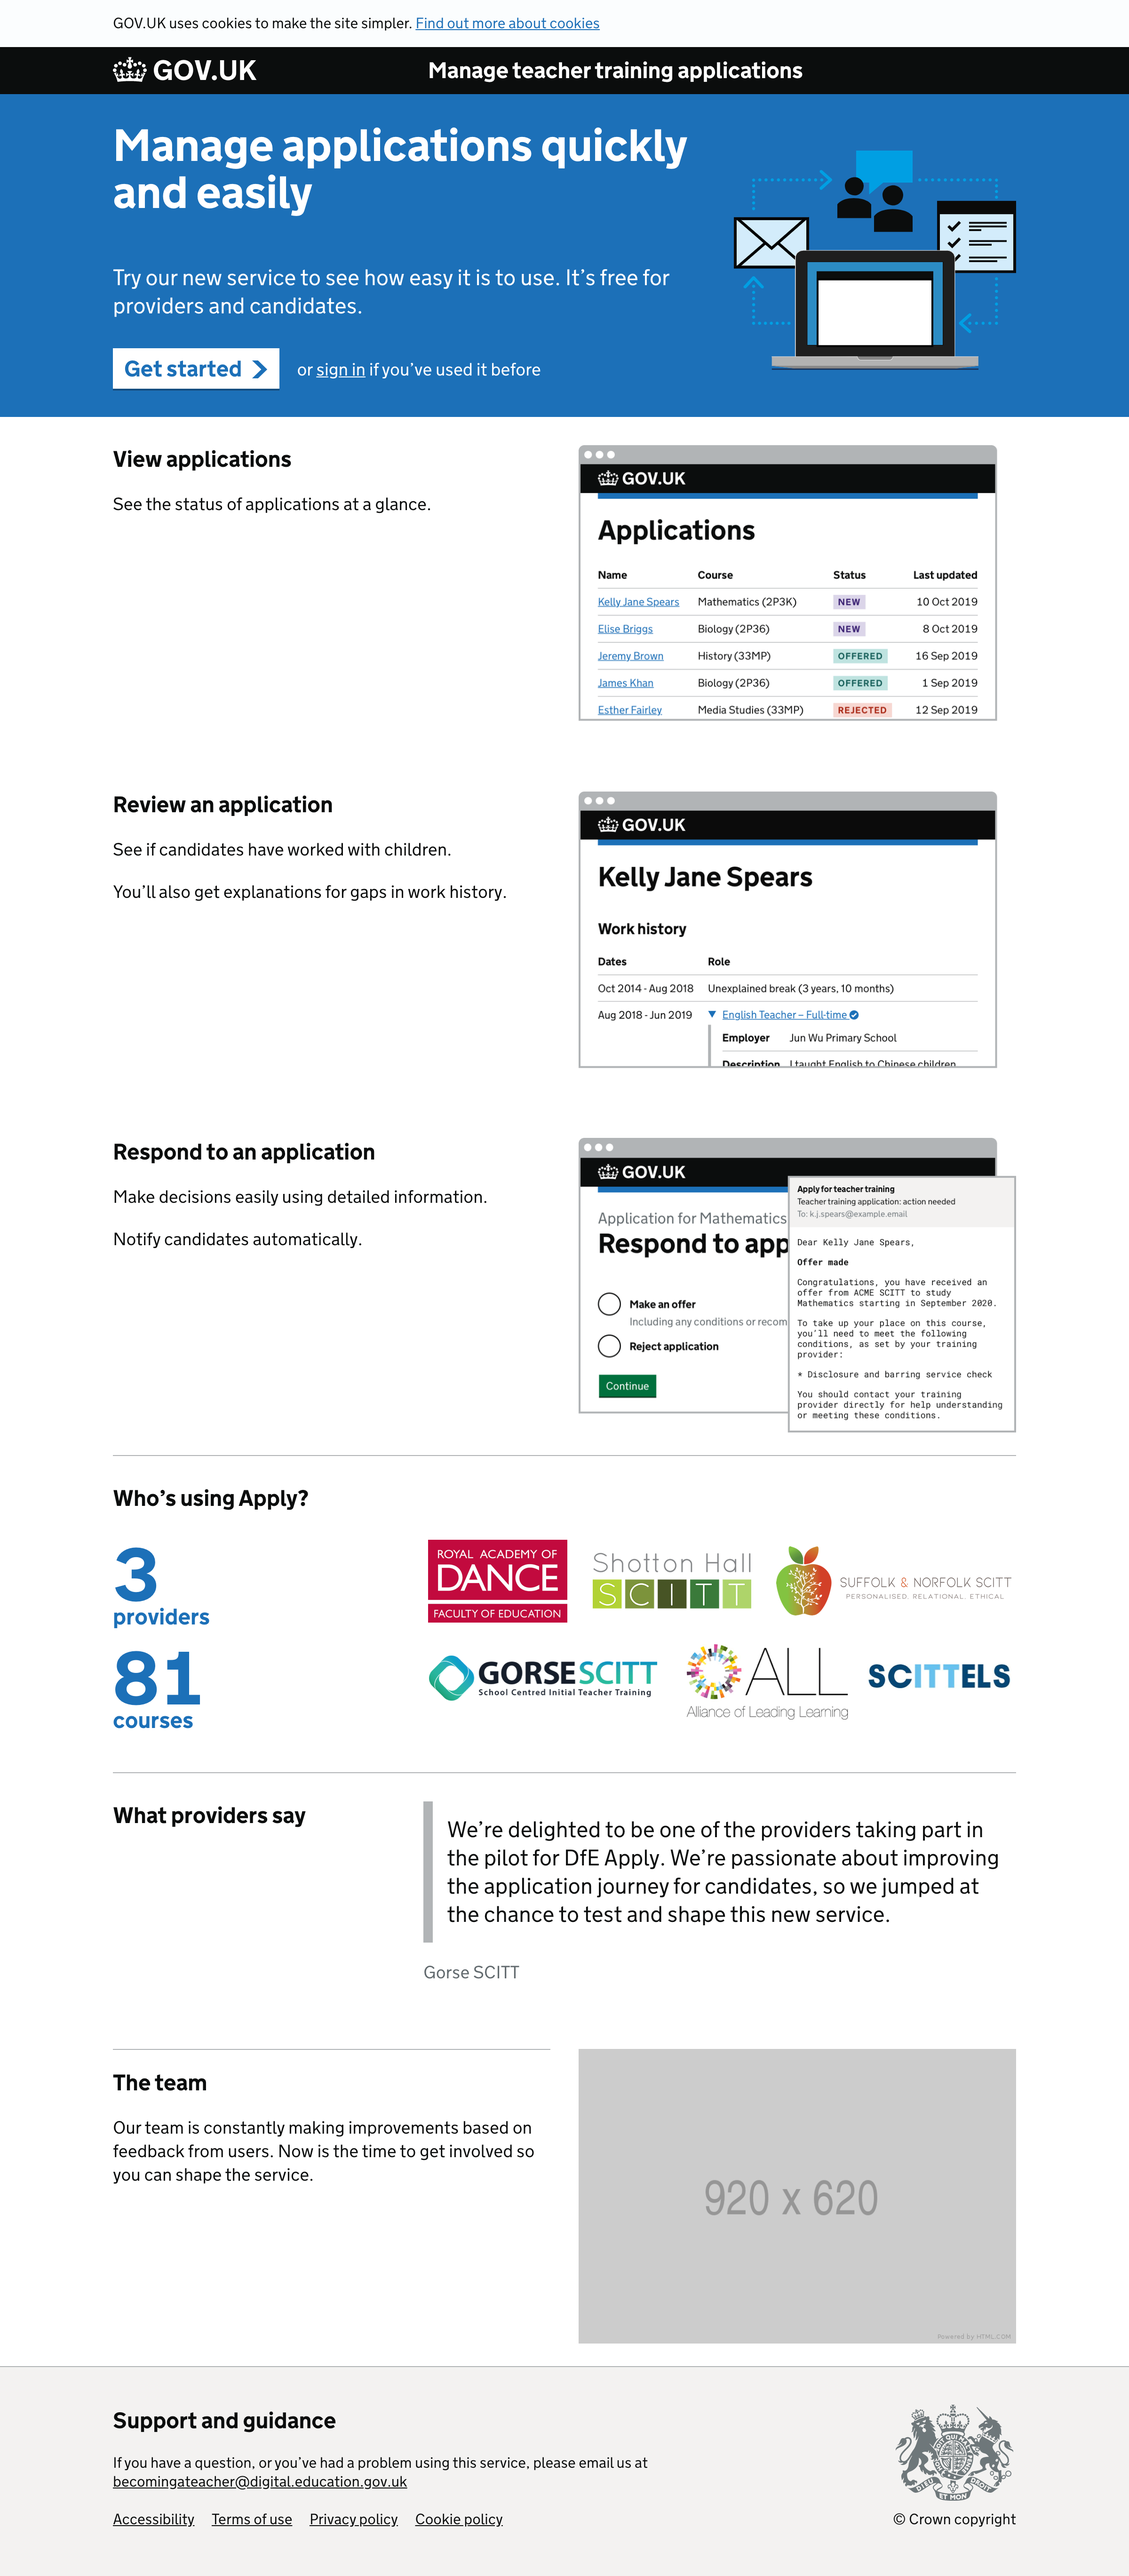
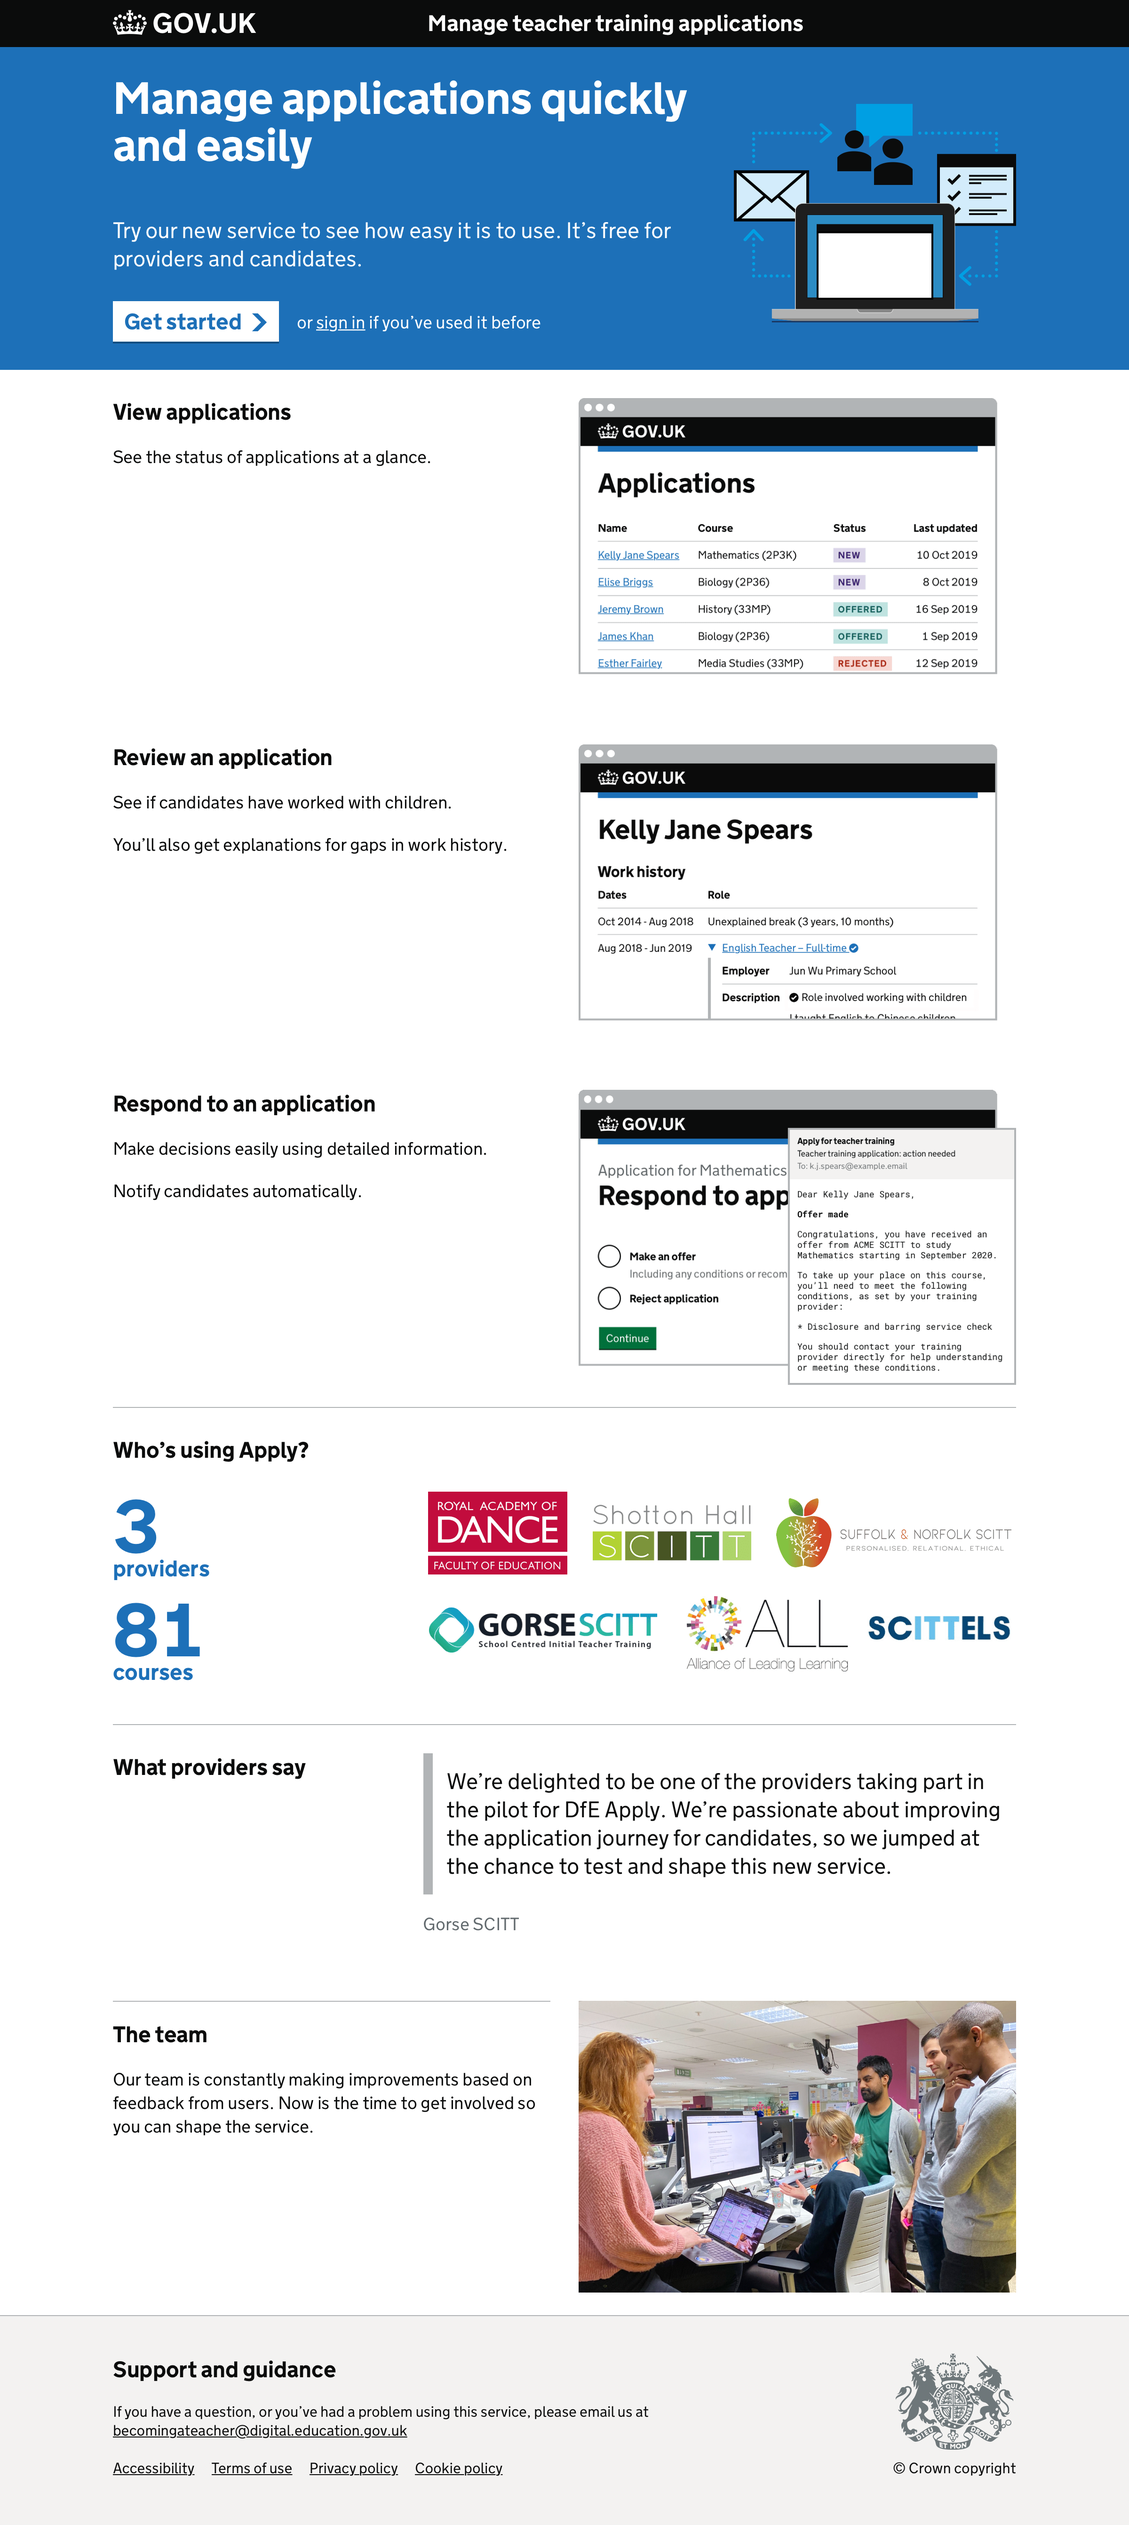
Update images for marketing page for providers post

diff --git a/app/posts/manage-teacher-training-applications/2020-01-23-marketing-page-for-providers.md b/app/posts/manage-teacher-training-applications/2020-01-23-marketing-page-for-providers.md
@@ -16,14 +16,8 @@ The page uses deliberately simplified screenshots so that:
 
 {% from "screenshots/macro.njk" import appScreenshots with context %}
 {{ appScreenshots({
-  items: [{
-      text: "Marketing page for providers",
-      img: { src: "marketing-page-for-providers.png" }
-    },
-    {
-      text: "Original mockup"
-    },
-    {
-      text: "Sign up Google form"
-    }]
+  items: [
+    { text: "Marketing page for providers" },
+    { text: "Sign up Google form" }
+  ]
 }) }}
